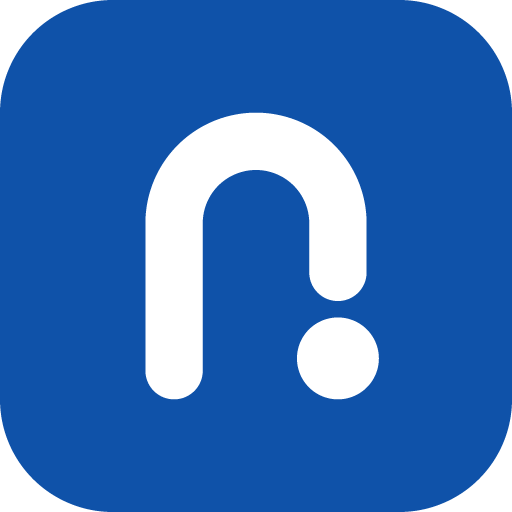
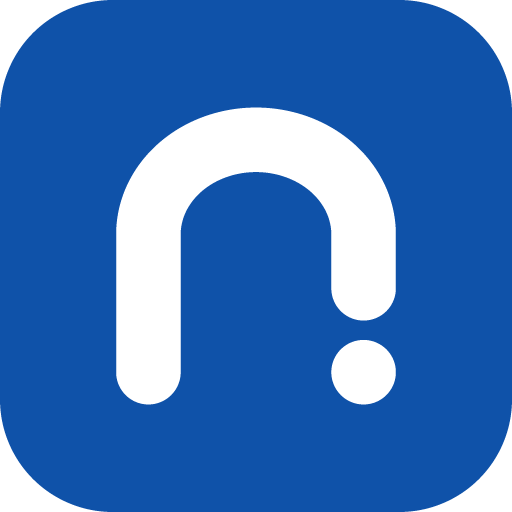
Refine the mark's proportions and the wordmark's sizing
Chosen against renders rather than by eye. Flattening the arch to an ellipse
(12.5 x 11) takes the mark from 0.77 to 0.94 aspect and opens the counter from
1.86 to 2.33 stem widths, which is what keeps it legible at favicon size. The
disc is now exactly one stem wide so it reads as a period rather than a bullet,
and the leg is half the stem's visible length so the break reads as deliberate.

Removing the leg entirely was tried and rejected: it turns the mark into an "r".

The wordmark is sized in em against its own type size, so the mark keeps its
relationship to the text at every scale. viewBox is cropped to the glyph, so
callers size the mark and not a box of padding around it.

diff --git a/src/components/Mark.tsx b/src/components/Mark.tsx
@@ -2,19 +2,30 @@
  * The namepoint mark.
  *
  * A geometric lowercase "n" carrying the product's one gesture: the left stem is
- * the name, the arch is the hop, and the right leg stops short of a solid disc,
- * which is the point it lands on. The gap before the disc is the whole idea, so
- * it is deliberate and should not be closed.
+ * the name, the arch is the hop, and the right leg stops half way down to a solid
+ * disc — the point it lands on. The gap is the idea, so it stays.
  *
- * Drawn at a logo weight rather than an interface weight — a heavy stroke against
- * a solid counterform — so it reads as a mark and not as another line icon. The
- * stem and the disc share a baseline at y=41.5; the geometry only looks right if
- * that stays true.
+ * Proportions, all in the 48-unit space below, chosen against renders rather than
+ * by eye:
+ *
+ *   arch      elliptical, 12.5 x 11. A true semicircle made the mark narrow
+ *             (0.77 aspect) and closed the counter up; flattening it gives a
+ *             near-square 0.94 and a counter 2.33x the stem, which is what keeps
+ *             it open at favicon size.
+ *   disc      exactly one stem wide, so it reads as a period. At 1.4x it read as
+ *             a bullet and pulled the eye off the letterform.
+ *   leg       half the stem's visible length, so the break reads as deliberate
+ *             rather than as a stub. Removing the leg entirely turns the mark
+ *             into an "r".
+ *
+ * The stem and the disc share a baseline at y=39.75; the geometry only works if
+ * that stays true. viewBox is cropped to the glyph so callers size the mark
+ * itself, not a box of padding around it.
  */
 export function Mark({ className = "" }: { className?: string }) {
 	return (
 		<svg
-			viewBox="0 0 48 48"
+			viewBox="7 4.5 34 36"
 			fill="none"
 			xmlns="http://www.w3.org/2000/svg"
 			className={className}
@@ -22,12 +33,12 @@ export function Mark({ className = "" }: { className?: string }) {
 			focusable="false"
 		>
 			<path
-				d="M14 38V20a10 10 0 0 1 20 0v6"
+				d="M11.5 36V20a12.5 11 0 0 1 25 0v6.25"
 				stroke="currentColor"
-				strokeWidth={7}
+				strokeWidth={7.5}
 				strokeLinecap="round"
 			/>
-			<circle cx="34" cy="36.5" r="5" fill="currentColor" />
+			<circle cx="36.5" cy="36" r="3.75" fill="currentColor" />
 		</svg>
 	);
 }

diff --git a/src/components/Wordmark.tsx b/src/components/Wordmark.tsx
@@ -3,20 +3,21 @@ import { Mark } from "@/components/Mark";
 /**
  * The wordmark: the mark, then the name.
  *
- * The mark is no longer set in a tinted rounded tile. That treatment is what
- * made it read as an interface affordance rather than a logo, and a mark this
- * solid does not need a container to hold it.
+ * Sized in `em` against the wordmark's own type size, so the mark keeps its
+ * relationship to the text at every scale instead of being pinned to a pixel
+ * height that only looks right at one of them. 1.05em puts the mark a little
+ * above the cap height of Space Grotesk, which is where a mark should sit.
+ *
+ * No tinted rounded tile any more. That container was what made the old glyph
+ * read as an interface affordance rather than a logo.
  */
 export function Wordmark({ size = "md" }: { size?: "sm" | "md" }) {
-	const glyph = size === "sm" ? "h-6 w-6" : "h-7 w-7";
 	const text = size === "sm" ? "text-base" : "text-lg";
 
 	return (
-		<span className="flex items-center gap-2.5">
-			<Mark
-				className={`${glyph} flex-none text-primary transition-transform duration-500 group-hover:-translate-y-px`}
-			/>
-			<span className={`font-display ${text} font-semibold tracking-tight`}>
+		<span className={`flex items-center gap-[0.5em] ${text}`}>
+			<Mark className="h-[1.05em] w-auto flex-none text-primary transition-transform duration-500 group-hover:-translate-y-px" />
+			<span className="font-display font-semibold leading-none tracking-tight">
 				namepoint
 			</span>
 		</span>
